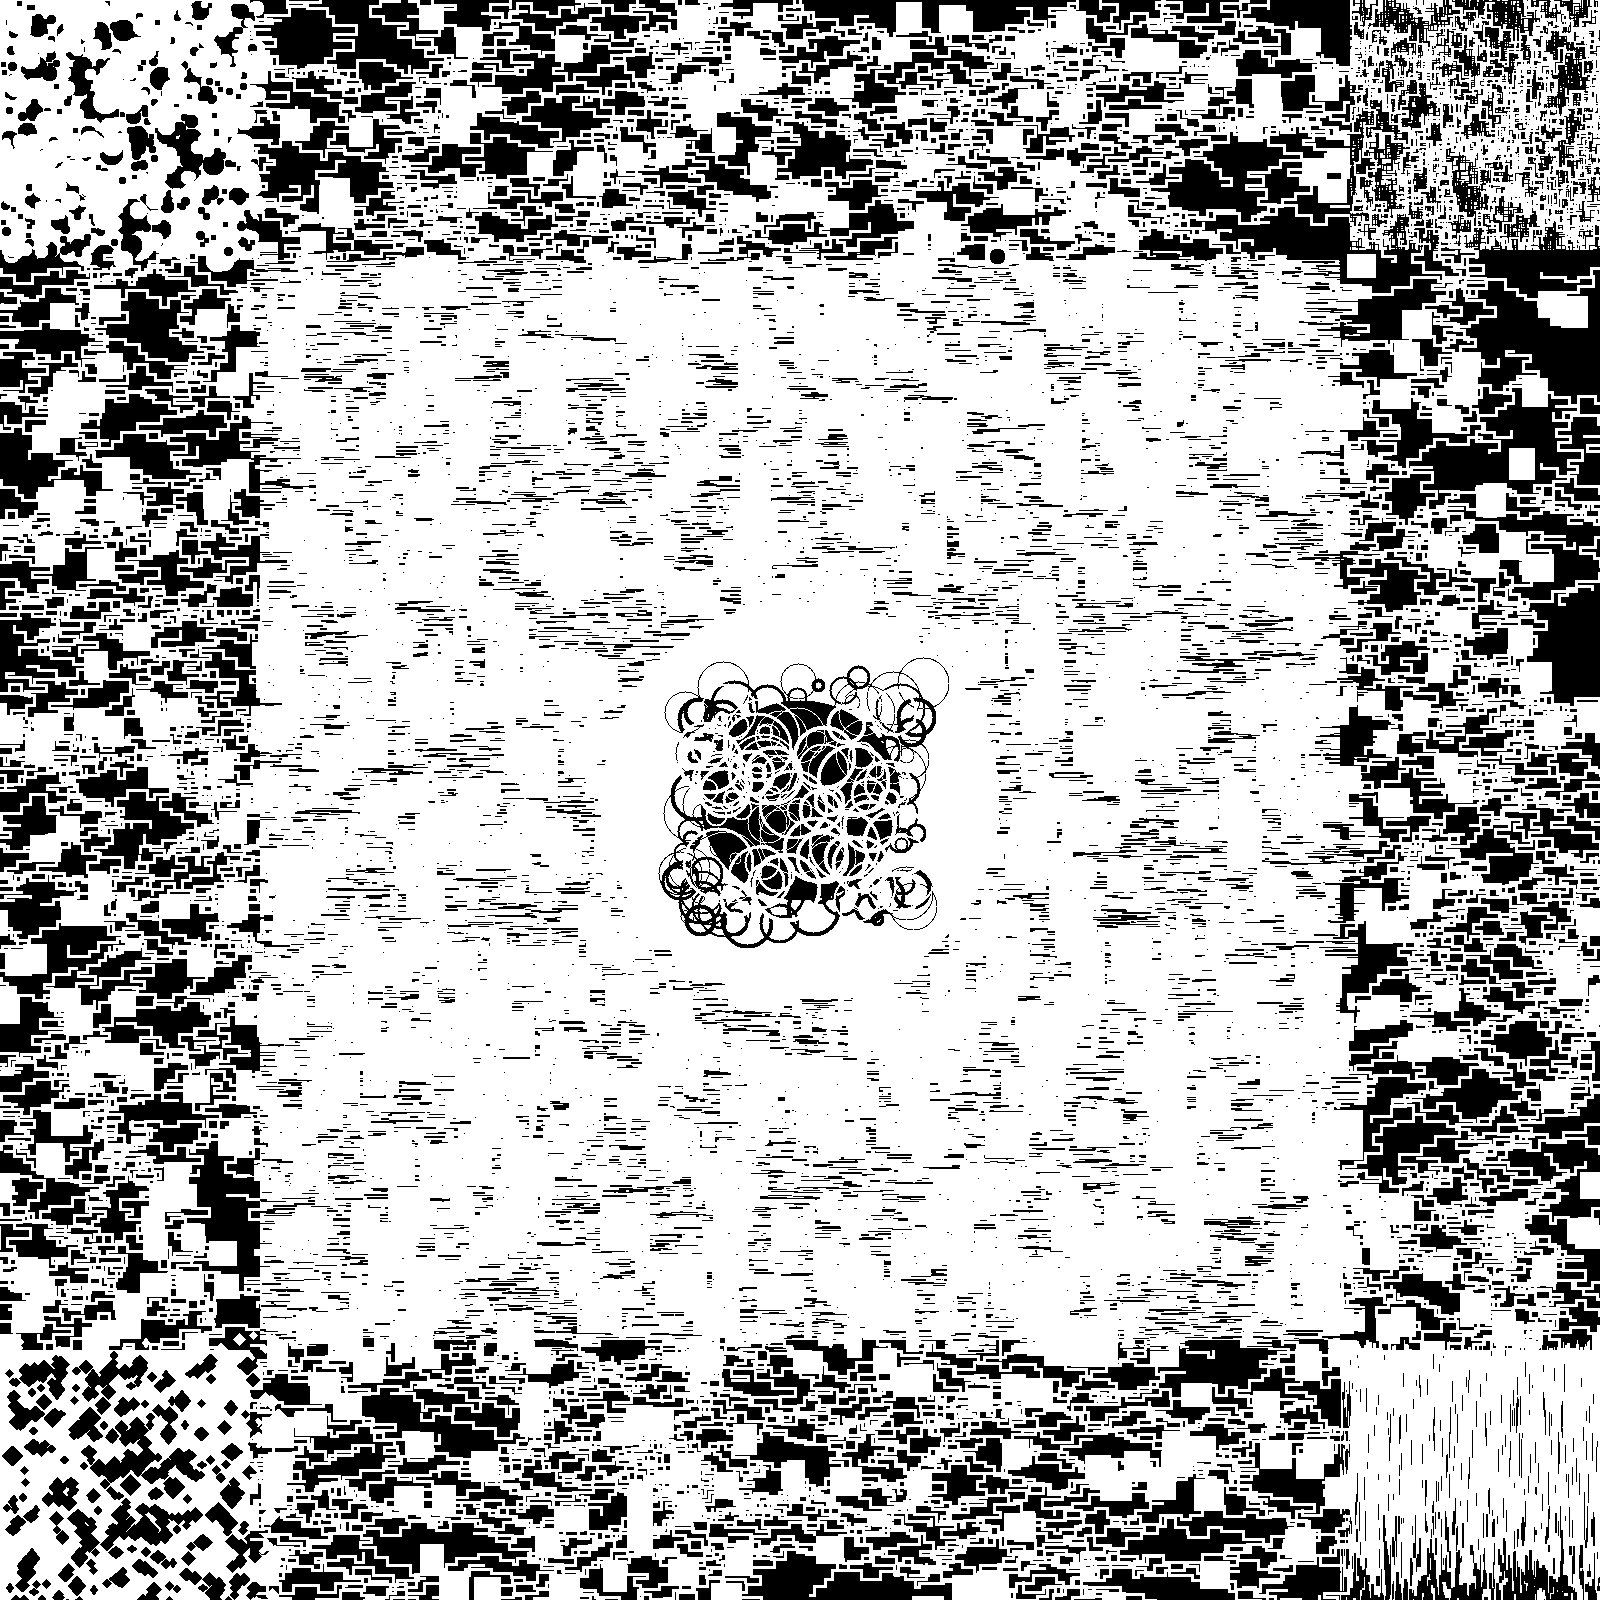
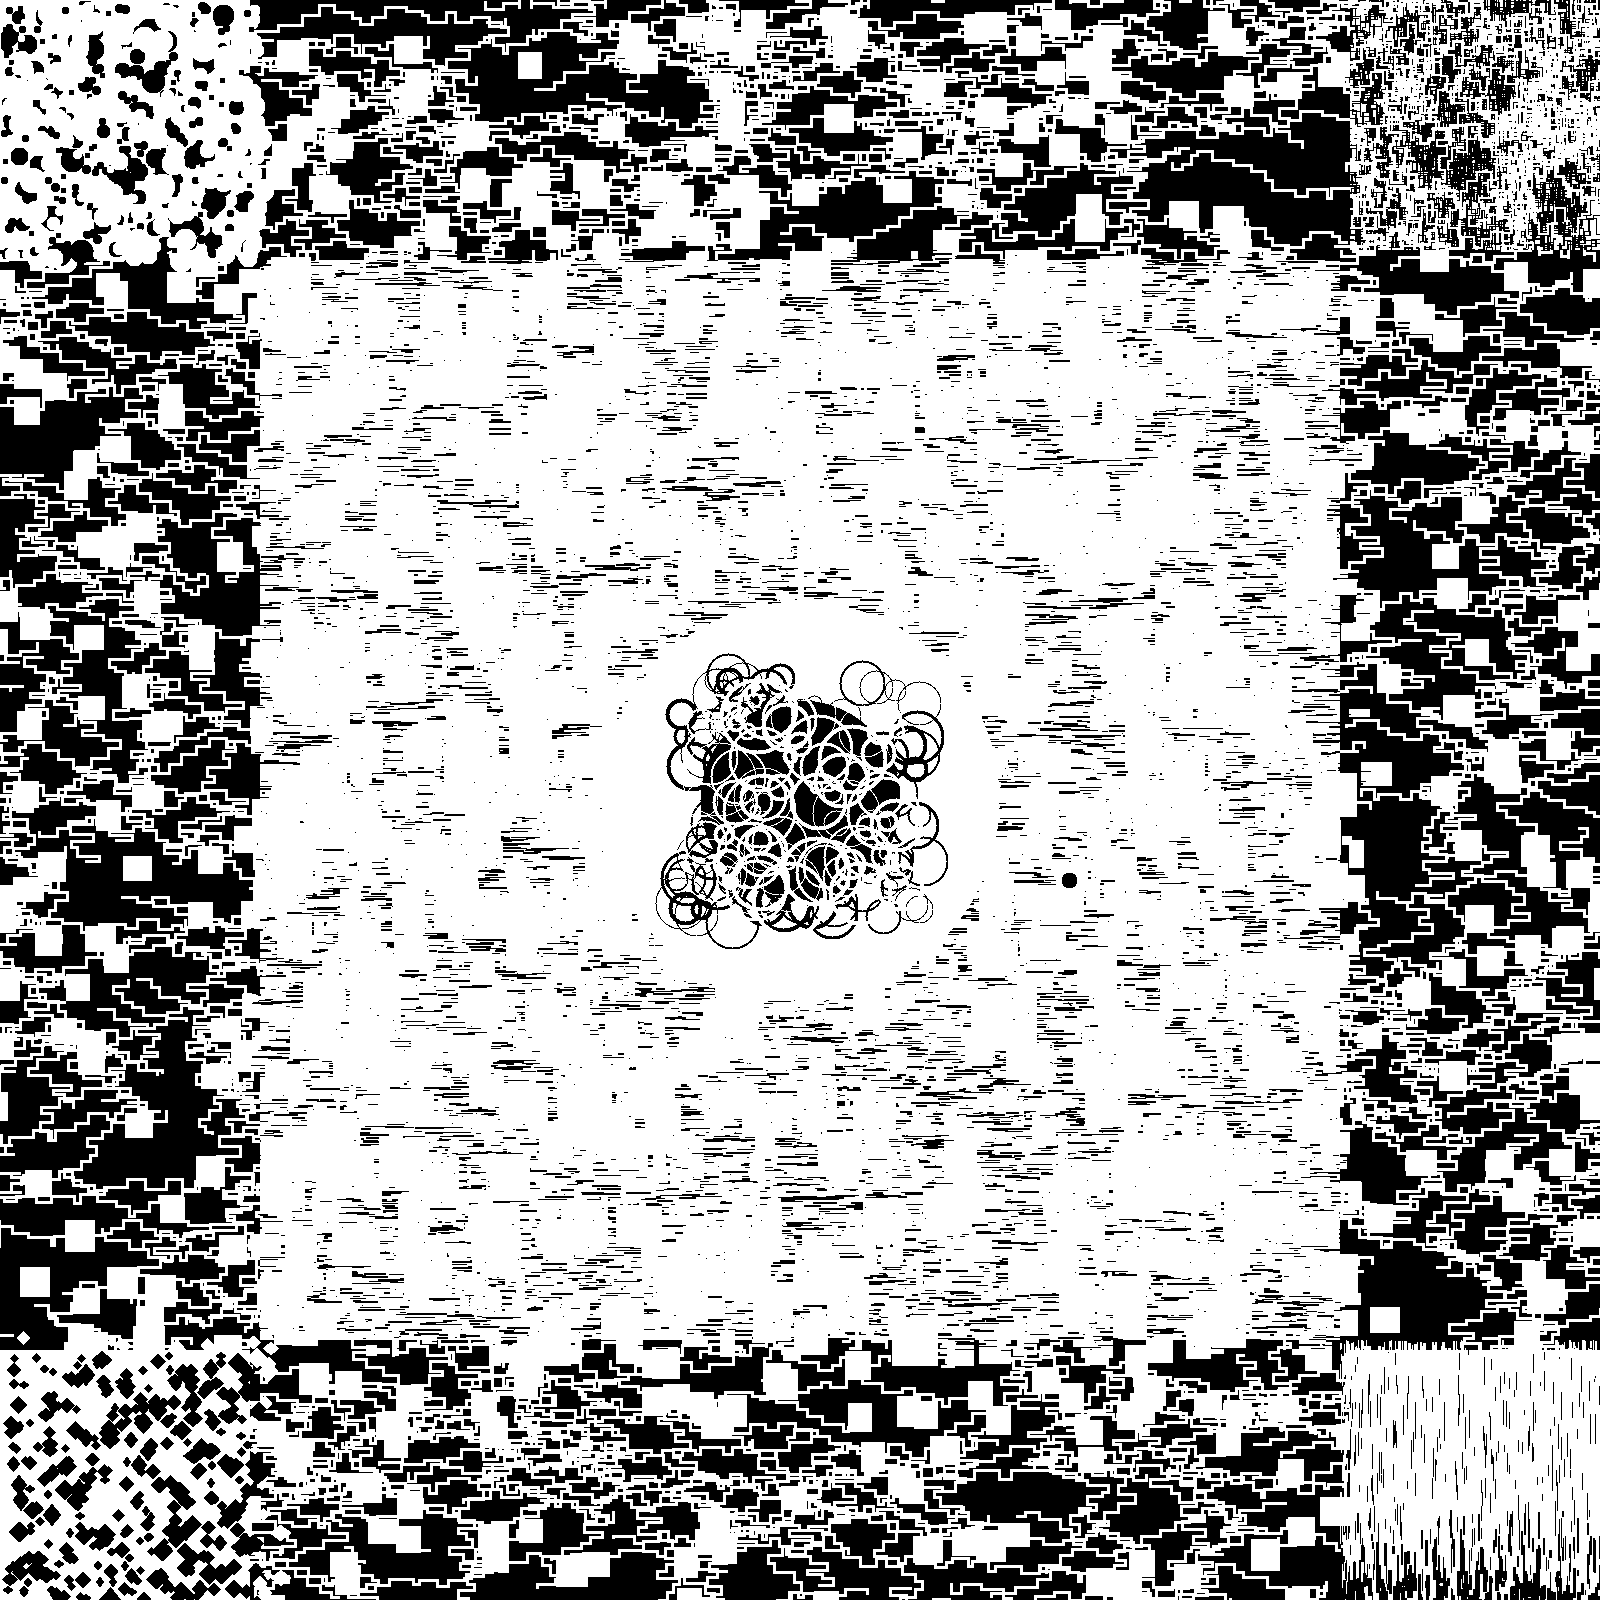
map

diff --git a/map.js b/map.js
@@ -404,21 +404,21 @@ exports.Map.prototype = {
     		this.map[y] = 0;
   	}
   //Build Terrain
-  // Dungeon
+  // Bedrock
     this.makeTerrain(0,0,ret,ret,132,136);
     this.randomTerrain(3750, 0, ret, 0, ret, 24, 32, 24, 32, 0, 0);
     this.makeTerrain(260, 260, ret-520, ret-520, 0, 0); 
-    //Underground Passages
-    this.randomSnakes(3500, 0, 25, 50, 250, ret-250, 0, 260, 6, 24, 4, 10, 3, 3, 0, 0);
-    this.randomSnakes(3500, 0, 25, 50, 0, 260, 250, ret-250, 6, 24, 4, 10, 3, 3, 0, 0);
-    this.randomSnakes(3500, 0, 25, 50, 250, ret-250, ret-260, ret, 6, 24, 4, 10, 3, 3, 0, 0);
-    this.randomSnakes(3500, 0, 25, 50, ret-260, ret, 250, ret-250, 6, 24, 4, 10, 3, 3, 0, 0);
   // Center Part of the Map
     this.randomTerrain(100,250, ret-250 ,250 , ret-250, 3, 30, 1, 2, 122, 136);
     this.randomTerrain(1000,250, ret-250 ,250 , ret-250, 3, 30, 3, 30, 0, 0);
     this.randomTerrain(700,250, ret-250 ,250 , ret-250, 1, 10, 1, 1, 122, 136);
     this.randomTerrain(2500,250, ret-280 ,250 , ret-280, 30, 50, 30, 50, 0, 0); //Large Voids
     this.randomTerrain(1000,250, ret-250 ,250 , ret-250, 1, 2, 1, 1, 122, 136);
+  // Underground Passages
+    this.randomSnakes(2500, 0, 25, 50, 250, ret-250, 0, 260, 6, 24, 4, 10, 3, 3, 0, 0);
+    this.randomSnakes(2500, 0, 25, 50, 0, 260, 250, ret-250, 6, 24, 4, 10, 3, 3, 0, 0);
+    this.randomSnakes(2500, 0, 25, 50, 250, ret-250, ret-260, ret, 6, 24, 4, 10, 3, 3, 0, 0);
+    this.randomSnakes(2500, 0, 25, 50, ret-260, ret, 250, ret-250, 6, 24, 4, 10, 3, 3, 0, 0);
   // The Very Center
     this.ring(800, 800, 800, 800, 199, 199, 0, 0);
     //this.ring(800, 800, 800, 800, 199, 1, 17, 45);
@@ -511,11 +511,6 @@ exports.Map.prototype = {
     var testRoomSize = 40
     this.makeTerrain(0, ret-testRoomSize, testRoomSize, testRoomSize, 0, 0);
     */
-  // Underground Passages
-    this.randomSnakes(3500, 0, 25, 50, 250, ret-250, 0, 260, 6, 24, 4, 10, 3, 3, 0, 0);
-    this.randomSnakes(3500, 0, 25, 50, 0, 260, 250, ret-250, 6, 24, 4, 10, 3, 3, 0, 0);
-    this.randomSnakes(3500, 0, 25, 50, 250, ret-250, ret-260, ret, 6, 24, 4, 10, 3, 3, 0, 0);
-    this.randomSnakes(3500, 0, 25, 50, ret-260, ret, 250, ret-250, 6, 24, 4, 10, 3, 3, 0, 0);
   //Portal Spawn
   	this.portal(0,ret-24 ,0,ret-24,24,24,8);
   /*Ring Colour Coding
